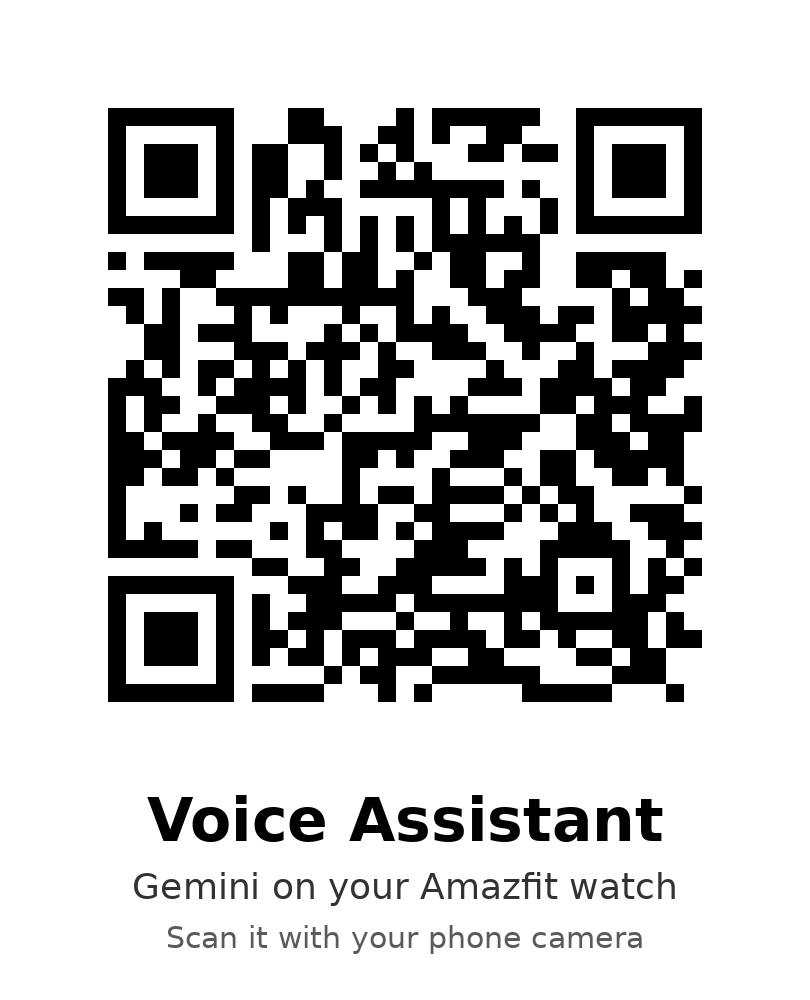
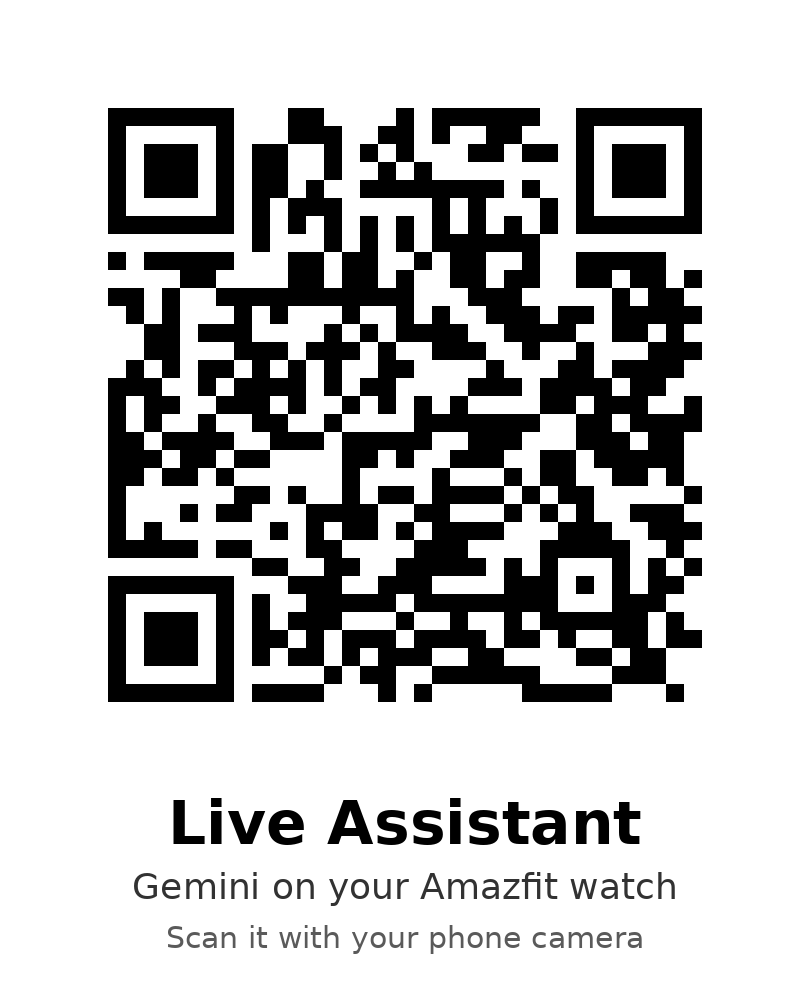
Live Assistant al posto di Voice Assistant su sito, guide e immagini da condividere; Gemini Live per Amazfit nelle guide
Claude-Session: https://claude.ai/code/session_01TVijgEFgQGuLc2PdWk6Dq2

Changed region(s): [[0.1852, 0.775, 0.8333, 0.868]]

diff --git a/index.html b/index.html
@@ -3,7 +3,7 @@
 <head>
 <meta charset="utf-8">
 <meta name="viewport" content="width=device-width, initial-scale=1">
-<title>Voice Assistant</title>
+<title>Live Assistant</title>
 <meta name="description" content="Gemini voice assistant for Amazfit and Huawei watches and Gateway Assistant for the phone: download and setup.">
 <link rel="icon" href="icon.png">
 <style>
@@ -51,7 +51,7 @@
   </nav>
   <header>
     <img src="icon.png" alt="">
-    <h1>Voice Assistant</h1>
+    <h1>Live Assistant</h1>
     <div class="bar"><i></i><i></i><i></i><i></i></div>
     <p class="lead" data-t="lead"></p>
   </header>
@@ -139,14 +139,14 @@
       s1p: "Scarica <b>Gateway Assistant</b> sul telefono Android e installalo (se Android lo chiede, consenti l'installazione da questa fonte).",
       s1btn: 'Scarica Gateway Assistant',
       s1small: 'Aprila, tocca <b>Avvia il gateway</b>, dai i permessi della lista finché sono tutti ✅ e copia il <b>codice</b>.',
-      iphone: '<b>Hai un iPhone?</b> Gateway Assistant esiste solo per Android, ma Voice Assistant funziona lo stesso: domande a Gemini, voce, meteo, notizie, promemoria e comandi dell\'orologio. Mancano solo casa Google, chiamate per nome e WhatsApp. Salta questo passo e lascia vuoto il codice Gateway; tieni l\'app Zepp aperta in sottofondo, altrimenti iOS la sospende.',
+      iphone: '<b>Hai un iPhone?</b> Gateway Assistant esiste solo per Android, ma Live Assistant funziona lo stesso: domande a Gemini, voce, meteo, notizie, promemoria e comandi dell\'orologio. Mancano solo casa Google, chiamate per nome e WhatsApp. Salta questo passo e lascia vuoto il codice Gateway; tieni l\'app Zepp aperta in sottofondo, altrimenti iOS la sospende.',
       s2: "App dell'orologio",
       s2p: "Scegli il tuo orologio: compare il codice QR da scansionare con l'app <b>Zepp</b>.",
       s2a: 'App Zepp → <b>Profilo</b> → <b>Impostazioni</b> → <b>Informazioni</b>: tocca più volte il logo Zepp finché si attiva la <b>modalità sviluppatore</b>.',
       s2b: "Torna in <b>Profilo</b> e tocca l'icona di <b>scansione</b> in alto, poi inquadra il codice (da un altro schermo, o fai uno screenshot e scansionalo dall'app).",
-      s2c: "L'app <b>Voice Assistant</b> si installa sull'orologio.",
+      s2c: "L'app <b>Live Assistant</b> si installa sull'orologio.",
       s3: 'Impostazioni',
-      s3p: 'App Zepp → il tuo orologio → App → <b>Voice Assistant</b> → Impostazioni:',
+      s3p: 'App Zepp → il tuo orologio → App → <b>Live Assistant</b> → Impostazioni:',
       s3a: '<b>Chiave API Gemini</b>: gratuita da <a href="https://aistudio.google.com/apikey" target="_blank" rel="noopener">aistudio.google.com/apikey</a>',
       s3b: '<b>La mia città</b> (meteo e notizie locali)',
       s3c: '<b>Gateway Assistant → Codice</b>: incolla il codice copiato al passo 1',
@@ -186,14 +186,14 @@
       s1p: 'Download <b>Gateway Assistant</b> on your Android phone and install it (if Android asks, allow installs from this source).',
       s1btn: 'Download Gateway Assistant',
       s1small: 'Open it, tap <b>Start the gateway</b>, grant the permissions in the list until they are all ✅ and copy the <b>code</b>.',
-      iphone: '<b>Got an iPhone?</b> Gateway Assistant is Android-only, but Voice Assistant still works: questions to Gemini, voice, weather, news, reminders and watch commands. Only Google home, calls by name and WhatsApp are missing. Skip this step and leave the Gateway code empty; keep the Zepp app open in the background, otherwise iOS suspends it.',
+      iphone: '<b>Got an iPhone?</b> Gateway Assistant is Android-only, but Live Assistant still works: questions to Gemini, voice, weather, news, reminders and watch commands. Only Google home, calls by name and WhatsApp are missing. Skip this step and leave the Gateway code empty; keep the Zepp app open in the background, otherwise iOS suspends it.',
       s2: 'Watch app',
       s2p: 'Choose your watch: the QR code to scan with the <b>Zepp</b> app appears.',
       s2a: 'Zepp app → <b>Profile</b> → <b>Settings</b> → <b>About</b>: tap the Zepp logo several times until <b>developer mode</b> turns on.',
       s2b: 'Go back to <b>Profile</b>, tap the <b>scan</b> icon at the top and point it at the code (on another screen, or take a screenshot and scan it from the app).',
-      s2c: 'The <b>Voice Assistant</b> app installs on the watch.',
+      s2c: 'The <b>Live Assistant</b> app installs on the watch.',
       s3: 'Settings',
-      s3p: 'Zepp app → your watch → Apps → <b>Voice Assistant</b> → Settings:',
+      s3p: 'Zepp app → your watch → Apps → <b>Live Assistant</b> → Settings:',
       s3a: '<b>Gemini API key</b>: free from <a href="https://aistudio.google.com/apikey" target="_blank" rel="noopener">aistudio.google.com/apikey</a>',
       s3b: '<b>My city</b> (weather and local news)',
       s3c: '<b>Gateway Assistant → Code</b>: paste the code copied in step 1',
@@ -233,14 +233,14 @@
       s1p: 'Descarga <b>Gateway Assistant</b> en tu teléfono Android e instálalo (si Android lo pide, permite la instalación desde esta fuente).',
       s1btn: 'Descargar Gateway Assistant',
       s1small: 'Ábrela, toca <b>Iniciar el gateway</b>, concede los permisos de la lista hasta que estén todos ✅ y copia el <b>código</b>.',
-      iphone: '<b>¿Tienes un iPhone?</b> Gateway Assistant solo existe para Android, pero Voice Assistant funciona igual: preguntas a Gemini, voz, tiempo, noticias, recordatorios y órdenes del reloj. Solo faltan la casa Google, las llamadas por nombre y WhatsApp. Sáltate este paso y deja vacío el código de Gateway; mantén la app Zepp abierta en segundo plano, si no iOS la suspende.',
+      iphone: '<b>¿Tienes un iPhone?</b> Gateway Assistant solo existe para Android, pero Live Assistant funciona igual: preguntas a Gemini, voz, tiempo, noticias, recordatorios y órdenes del reloj. Solo faltan la casa Google, las llamadas por nombre y WhatsApp. Sáltate este paso y deja vacío el código de Gateway; mantén la app Zepp abierta en segundo plano, si no iOS la suspende.',
       s2: 'App del reloj',
       s2p: 'Elige tu reloj: aparece el código QR que debes escanear con la app <b>Zepp</b>.',
       s2a: 'App Zepp → <b>Perfil</b> → <b>Ajustes</b> → <b>Acerca de</b>: toca varias veces el logo de Zepp hasta que se active el <b>modo desarrollador</b>.',
       s2b: 'Vuelve a <b>Perfil</b>, toca el icono de <b>escanear</b> arriba y enfoca el código (desde otra pantalla, o haz una captura y escanéala desde la app).',
-      s2c: 'La app <b>Voice Assistant</b> se instala en el reloj.',
+      s2c: 'La app <b>Live Assistant</b> se instala en el reloj.',
       s3: 'Ajustes',
-      s3p: 'App Zepp → tu reloj → Apps → <b>Voice Assistant</b> → Ajustes:',
+      s3p: 'App Zepp → tu reloj → Apps → <b>Live Assistant</b> → Ajustes:',
       s3a: '<b>Clave API de Gemini</b>: gratis en <a href="https://aistudio.google.com/apikey" target="_blank" rel="noopener">aistudio.google.com/apikey</a>',
       s3b: '<b>Mi ciudad</b> (tiempo y noticias locales)',
       s3c: '<b>Gateway Assistant → Código</b>: pega el código copiado en el paso 1',

diff --git a/GUIDA.md b/GUIDA.md
@@ -1,4 +1,4 @@
-# Voice Assistant (orologio) + Gateway Assistant (telefono) — guida rapida
+# Live Assistant (orologio) + Gateway Assistant (telefono) — guida rapida
 
 Con l'orologio Amazfit (Zepp OS) o Huawei Watch 3 / Watch 4 parli con Gemini e, tramite l'app **Gateway Assistant** sul telefono Android, puoi:
 comandare la casa Google, chiamare, mandare/leggere/rispondere ai WhatsApp e avere la voce del telefono.
@@ -21,10 +21,10 @@ Ognuno usa il proprio telefono, il proprio account Google e la propria chiave Ge
    Se un'impostazione risulta "con restrizioni": Impostazioni → App → Gateway Assistant → menu ⋮ → *Consenti impostazioni con restrizioni*.
 5. Tocca **Copia codice** (il codice del canale).
 
-## 2 · Installa Voice Assistant sull'orologio
+## 2 · Installa Live Assistant sull'orologio
 1. Nell'app Zepp attiva la modalità sviluppatore: Profilo → Impostazioni → Informazioni → tocca più volte il logo Zepp.
 2. Apri il sito **https://kkaoss969.github.io/gateway-assistant-download/**, scegli il tuo orologio e scansiona il **codice QR** con l'app Zepp (Profilo → icona di scansione).
-3. Nell'app Zepp apri le impostazioni dell'app **Voice Assistant** e compila:
+3. Nell'app Zepp apri le impostazioni dell'app **Live Assistant** e compila:
    - **Chiave API Gemini**
    - **La mia città** (meteo e notizie locali)
    - **Gateway Assistant → Codice**: incolla il codice copiato al punto 1
@@ -37,7 +37,9 @@ Ognuno usa il proprio telefono, il proprio account Google e la propria chiave Ge
   Senza, il telefono si accende e il messaggio parte quando lo sblocchi.
 - **Comandi di casa a telefono bloccato**: app Google → Impostazioni → Assistente Google → Schermata di blocco → risposte personali attive.
 
-**Sveglia del telefono**: quando suona, l'orologio vibra e apre da solo i tasti **Spegni** e **Posticipa**. L'orologio impara l'ora della prossima sveglia ogni volta che apri Voice Assistant (e dopo ogni sveglia): se crei una sveglia nuova sul telefono, apri l'app sull'orologio una volta. ⚠ In **modalità notte** o **non disturbare** l'orologio blocca le app esterne: programma la modalità notte / non disturbare in modo che finisca qualche minuto prima della sveglia (Impostazioni dell'orologio → Non disturbare → Programmato).
+**Sveglia del telefono**: quando suona, l'orologio vibra e apre da solo i tasti **Spegni** e **Posticipa**. L'orologio impara l'ora della prossima sveglia ogni volta che apri Live Assistant (e dopo ogni sveglia): se crei una sveglia nuova sul telefono, apri l'app sull'orologio una volta. ⚠ In **modalità notte** o **non disturbare** l'orologio blocca le app esterne: programma la modalità notte / non disturbare in modo che finisca qualche minuto prima della sveglia (Impostazioni dell'orologio → Non disturbare → Programmato).
+
+**Gemini Live (prova)**: nell'app Zepp → Live Assistant → Impostazioni accendi **Usa Gemini Live** (serve Gateway Assistant 1.65 o successivo sullo stesso telefono). La risposta arriva già a voce, senza aspettare la sintesi; se Live non risponde si usa il metodo normale.
 
 ## Orologio Huawei (Watch 3, Watch 4)
 Per gli orologi **Huawei Watch 3 e Watch 4** (quelli con base Android) c'è **Live Assistant**, con **Gemini Live**: mentre parli la domanda parte già verso Gemini e la risposta arriva direttamente a voce, di solito in 1-3 secondi. Funziona con il Wi-Fi o l'LTE dell'orologio e anche solo via Bluetooth tramite Gateway. Si installa da **Gateway Assistant**, senza computer.
@@ -56,7 +58,7 @@ Sull'orologio l'**ingranaggio** sotto *Nuova chat* apre le impostazioni (città,
 
 ## Con l'iPhone
 Gateway Assistant esiste solo per Android: iOS non permette a un'app di restare sempre attiva, premere "Invia" in WhatsApp, leggere le notifiche o passare frasi all'Assistente Google.
-**Voice Assistant però funziona anche con l'iPhone**: domande a Gemini, voce, meteo, notizie, promemoria, volume, luminosità e torcia.
+**Live Assistant però funziona anche con l'iPhone**: domande a Gemini, voce, meteo, notizie, promemoria, volume, luminosità e torcia.
 Non funzionano: comandi per la casa Google, chiamate per nome dalla rubrica, invio e lettura dei WhatsApp, voce del telefono di riserva.
 - Salta il passo 1 e lascia vuoto **Gateway Assistant → Codice**.
 - Tieni l'**app Zepp aperta in sottofondo** (non chiuderla dal multitasking): se iOS la sospende, l'orologio dice "telefono non raggiungibile".
@@ -79,6 +81,6 @@ Non funzionano: comandi per la casa Google, chiamate per nome dalla rubrica, inv
 **Modalità privacy**: tocca il pulsante col **microfono** in basso a destra del pulsante centrale: diventa una **tastiera** verde: il microfono resta spento e il pulsante centrale apre la tastiera; scrivi la domanda e la risposta arriva solo scritta, senza voce. Toccalo di nuovo per tornare alla voce. Per una sola domanda scritta puoi anche **tenere premuto** il pulsante centrale. Serve un orologio con Zepp OS 4 o successivo.
 
 ## Se qualcosa non va
-- App Zepp → Voice Assistant → **Diagnostica**: mostra cosa è successo a ogni domanda.
+- App Zepp → Live Assistant → **Diagnostica**: mostra cosa è successo a ogni domanda.
 - In Gateway Assistant il **Diario** mostra chiamate, messaggi e comandi.
 - Il gateway deve essere avviato ("Gateway attivo ✓") e con la batteria senza restrizioni.

diff --git a/GUIDE.md b/GUIDE.md
@@ -1,4 +1,4 @@
-# Voice Assistant (watch) + Gateway Assistant (phone) — quick guide
+# Live Assistant (watch) + Gateway Assistant (phone) — quick guide
 
 With your Amazfit watch (Zepp OS) or Huawei Watch 3 / Watch 4 you talk to Gemini and, through the **Gateway Assistant** app on your Android phone, you can:
 control your Google home, make calls, send/read/reply to WhatsApp messages and use the phone's voice.
@@ -21,10 +21,10 @@ Everyone uses their own phone, Google account and Gemini key: nothing to share.
    If a setting is "restricted": Settings → Apps → Gateway Assistant → ⋮ menu → *Allow restricted settings*.
 5. Tap **Copy code** (the channel code).
 
-## 2 · Install Voice Assistant on the watch
+## 2 · Install Live Assistant on the watch
 1. In the Zepp app turn on developer mode: Profile → Settings → About → tap the Zepp logo several times.
 2. Open **https://kkaoss969.github.io/gateway-assistant-download/**, choose your watch and scan the **QR code** with the Zepp app (Profile → scan icon).
-3. In the Zepp app open the settings of the **Voice Assistant** app and fill in:
+3. In the Zepp app open the settings of the **Live Assistant** app and fill in:
    - **Gemini API key**
    - **My city** (weather and local news)
    - **Gateway Assistant → Code**: paste the code copied in step 1
@@ -37,7 +37,9 @@ Everyone uses their own phone, Google account and Gemini key: nothing to share.
   Without it, the phone wakes up and the message is sent when you unlock it.
 - **Home commands with a locked phone**: Google app → Settings → Google Assistant → Lock screen → personal results on.
 
-**Phone alarm**: when it rings, the watch vibrates and opens the **Turn off** and **Snooze** buttons by itself. The watch learns the time of the next alarm whenever you open Voice Assistant (and after each alarm): if you create a new alarm on the phone, open the app on the watch once. ⚠ In **sleep mode** or **do not disturb** the watch blocks third-party apps: schedule sleep mode / do not disturb to end a few minutes before the alarm (watch Settings → Do not disturb → Scheduled).
+**Phone alarm**: when it rings, the watch vibrates and opens the **Turn off** and **Snooze** buttons by itself. The watch learns the time of the next alarm whenever you open Live Assistant (and after each alarm): if you create a new alarm on the phone, open the app on the watch once. ⚠ In **sleep mode** or **do not disturb** the watch blocks third-party apps: schedule sleep mode / do not disturb to end a few minutes before the alarm (watch Settings → Do not disturb → Scheduled).
+
+**Gemini Live (trial)**: in the Zepp app → Live Assistant → Settings turn on **Use Gemini Live** (needs Gateway Assistant 1.65 or later on the same phone). The answer arrives already as voice, without waiting for speech synthesis; if Live fails the normal method is used.
 
 ## Huawei watch (Watch 3, Watch 4)
 For **Huawei Watch 3 and Watch 4** (the Android-based ones) there is **Live Assistant**, with **Gemini Live**: while you speak the question is already going to Gemini and the answer comes straight back as voice, usually in 1-3 seconds. It works with the watch's Wi-Fi or LTE and also over Bluetooth only, through Gateway. It installs from **Gateway Assistant**, no computer needed.
@@ -56,7 +58,7 @@ On the watch the **gear** under *New chat* opens the settings (city, Auto/Blueto
 
 ## With an iPhone
 Gateway Assistant is Android-only: iOS does not let an app stay always on, press "Send" in WhatsApp, read notifications or pass phrases to Google Assistant.
-**Voice Assistant still works with an iPhone**: questions to Gemini, voice, weather, news, reminders, volume, brightness and torch.
+**Live Assistant still works with an iPhone**: questions to Gemini, voice, weather, news, reminders, volume, brightness and torch.
 Not available: Google home commands, calls by name from your contacts, sending and reading WhatsApp, backup phone voice.
 - Skip step 1 and leave **Gateway Assistant → Code** empty.
 - Keep the **Zepp app open in the background** (don't swipe it away): if iOS suspends it, the watch says "phone unreachable".
@@ -79,6 +81,6 @@ Not available: Google home commands, calls by name from your contacts, sending a
 **Privacy mode**: tap the **microphone** button at the bottom right of the central button: it becomes a green **keyboard**: the microphone stays off and the central button opens the keyboard; type your question and the answer comes back as text only, with no voice. Tap it again to go back to voice. For a single typed question you can also **press and hold** the central button. Needs a watch with Zepp OS 4 or later.
 
 ## If something goes wrong
-- Zepp app → Voice Assistant → **Diagnostics**: shows what happened with each question.
+- Zepp app → Live Assistant → **Diagnostics**: shows what happened with each question.
 - In Gateway Assistant the **Log** shows calls, messages and commands.
 - The gateway must be running ("Gateway running ✓") with the battery unrestricted.

diff --git a/README.md b/README.md
@@ -2,7 +2,7 @@
 
 🌐 **Sito con download e codici QR per l'orologio: https://kkaoss969.github.io/gateway-assistant-download/**
 
-App Android che collega **Voice Assistant** (assistente vocale con Gemini per orologi Amazfit con Zepp OS e Huawei Watch 3 / Watch 4) al telefono:
+App Android che collega **Live Assistant** (assistente vocale con Gemini per orologi Amazfit con Zepp OS e Huawei Watch 3 / Watch 4) al telefono:
 casa Google tramite l'Assistente del telefono, chiamate, WhatsApp (invio, lettura e risposta) e voce di riserva.
 
 ## ⬇ Scarica
@@ -19,8 +19,8 @@ Tutti i passaggi (telefono, orologio, permessi, cosa puoi dire): **[GUIDA.md](GU
 🌐 Le app parlano italiano, inglese e spagnolo, secondo la lingua dell'orologio e del telefono.
 
 ## Note
-- **iPhone**: Gateway Assistant è solo per Android. Con l'iPhone Voice Assistant funziona lo stesso (domande, voce, meteo, notizie, promemoria), senza casa Google, chiamate per nome e WhatsApp. Dettagli nella guida.
+- **iPhone**: Gateway Assistant è solo per Android. Con l'iPhone Live Assistant funziona lo stesso (domande, voce, meteo, notizie, promemoria), senza casa Google, chiamate per nome e WhatsApp. Dettagli nella guida.
 - Ognuno usa il proprio telefono, il proprio account Google e la propria chiave Gemini: niente viene condiviso.
-- L'app sull'orologio (Voice Assistant) si installa con il codice QR del sito (modalità sviluppatore dell'app Zepp).
+- L'app sull'orologio (Live Assistant) si installa con il codice QR del sito (modalità sviluppatore dell'app Zepp).
 - **Huawei Watch 3 / Watch 4**: **Live Assistant** (con Gemini Live: risposte a voce in 1-3 s, anche via Bluetooth) si installa da Gateway Assistant (⌚ Orologio Huawei: installa e diagnostica) con il Debug via Wi-Fi dell'orologio. APK diretto: **[LiveAssistantHuawei.apk](https://github.com/Kkaoss969/gateway-assistant-download/raw/main/LiveAssistantHuawei.apk)** — versione 1.0
 - I permessi di accessibilità e notifiche servono solo per WhatsApp: l'app agisce solo dentro WhatsApp e solo subito dopo un tuo comando dall'orologio.
